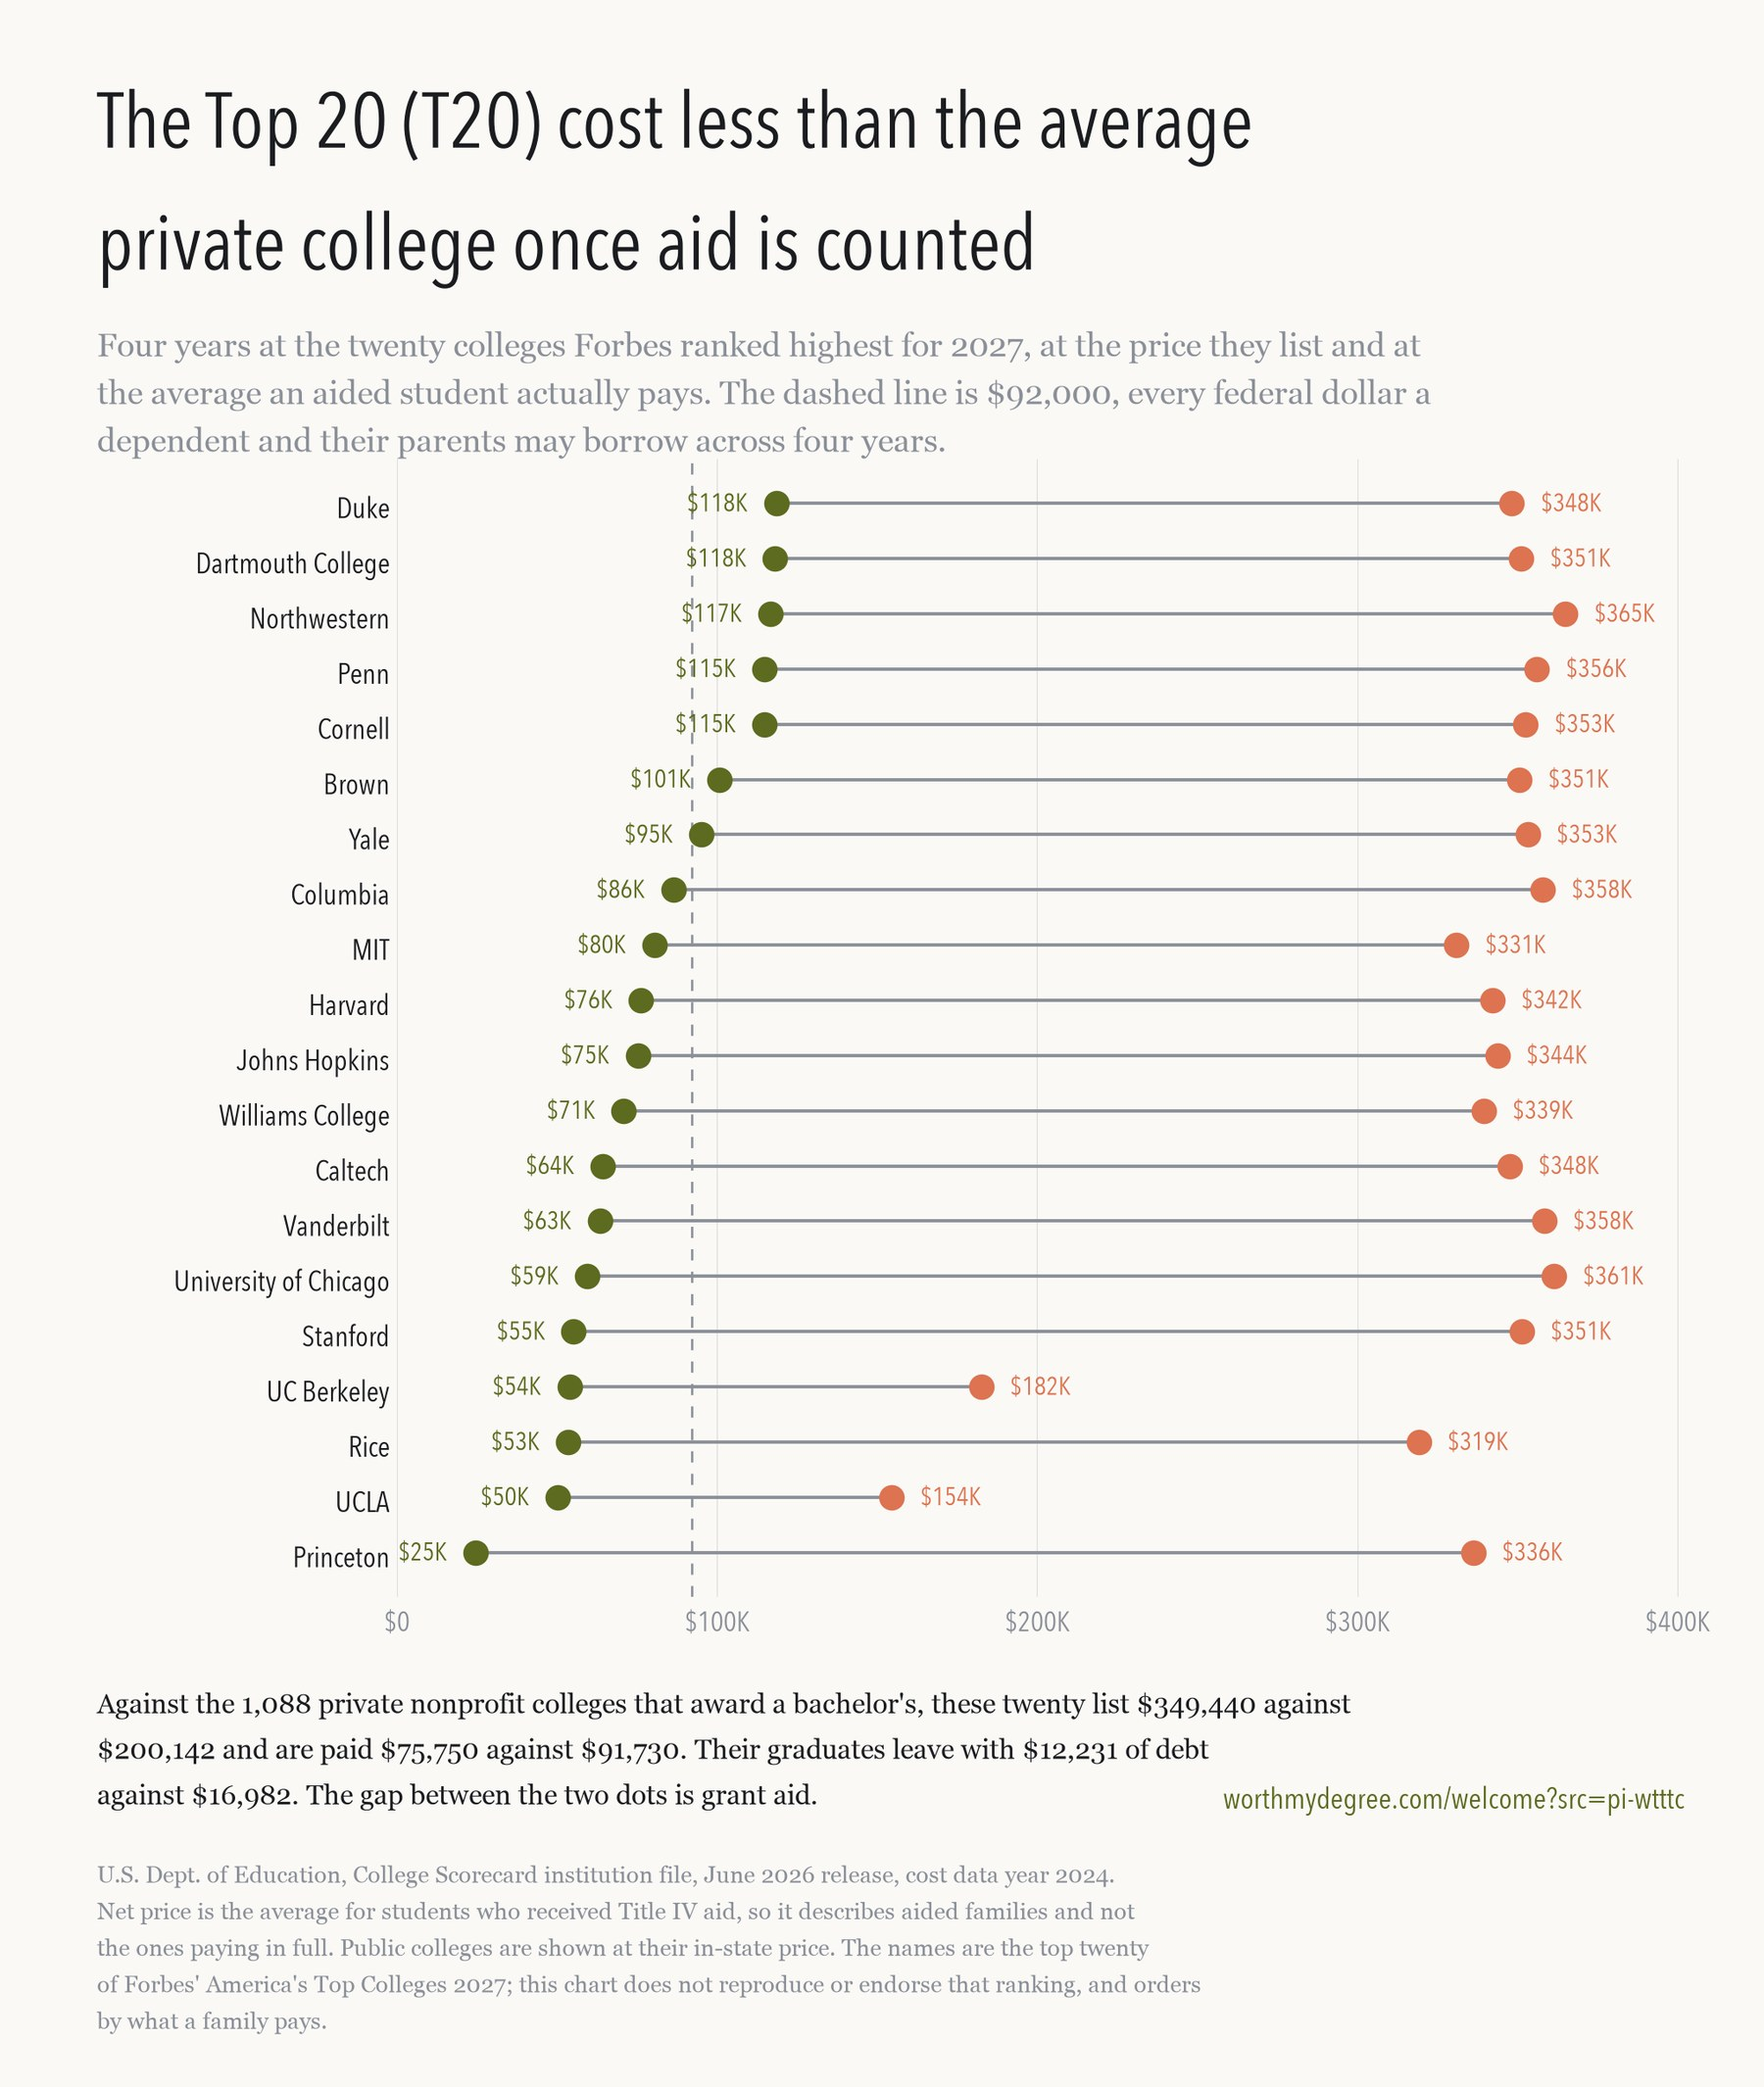
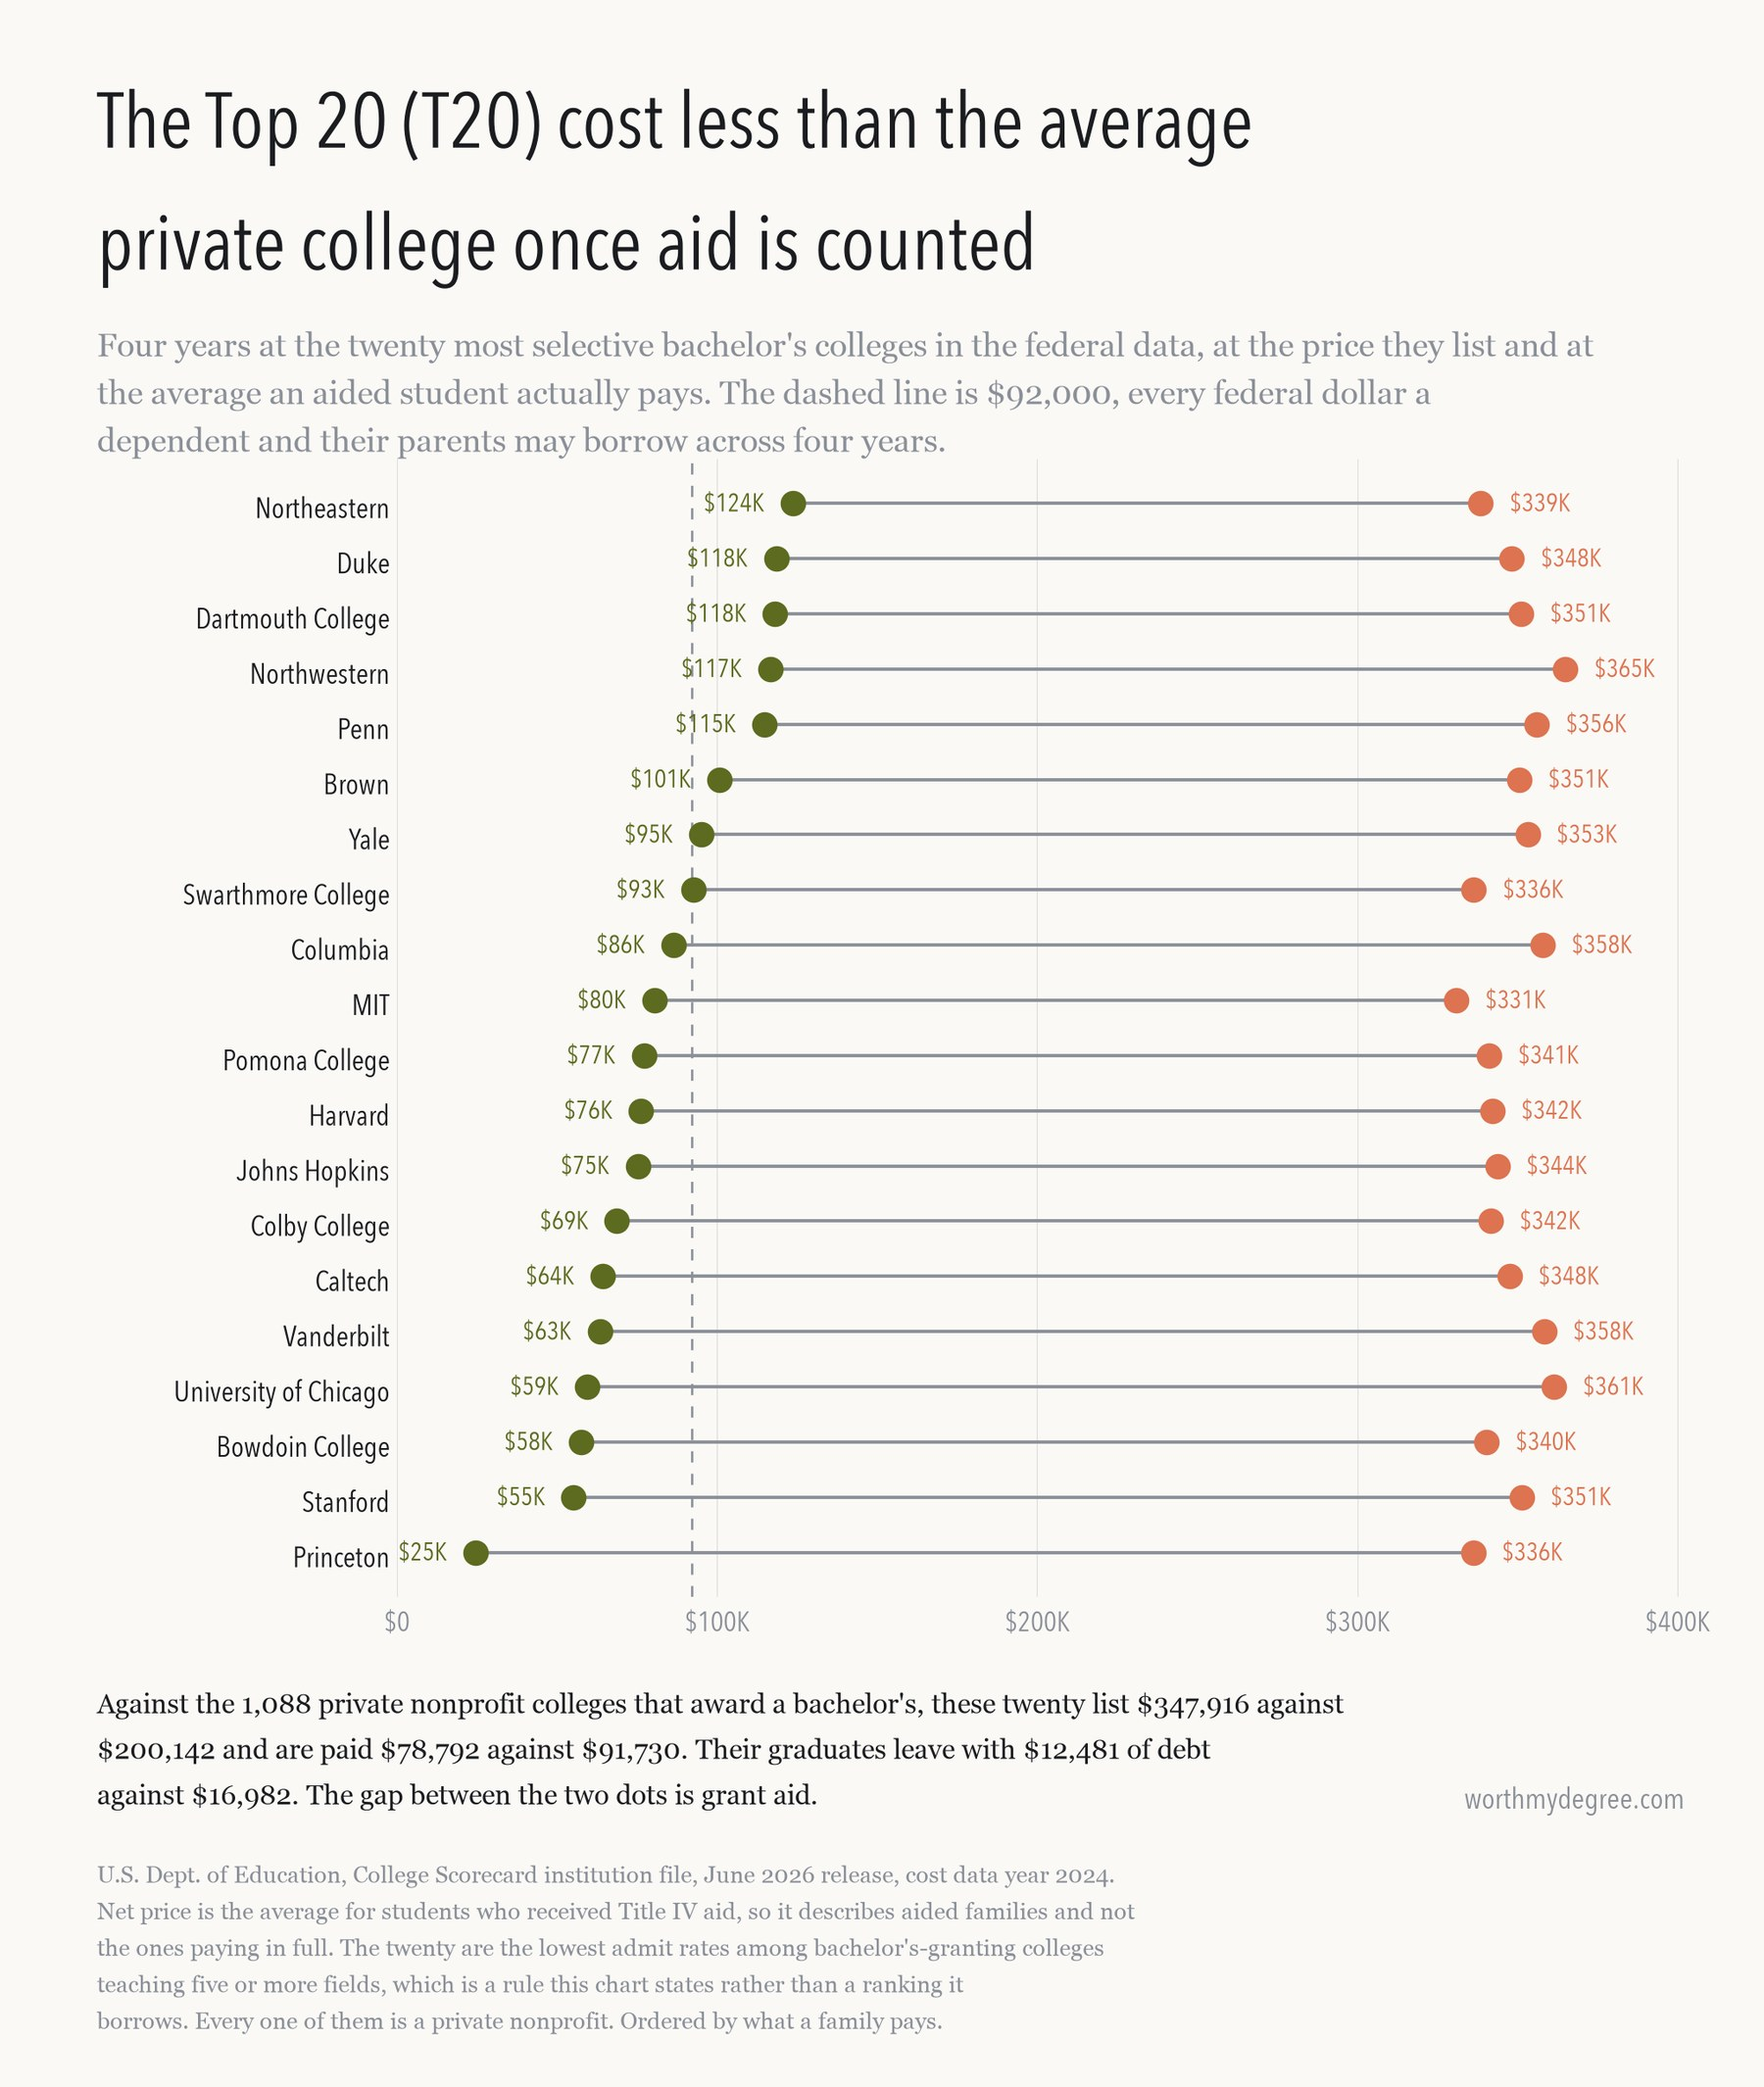
The twenty are derived, not borrowed: a selection of our own
The chart priced the twenty names at the head of Forbes' 2027 ranking,
used as a list of names with the order discarded. That was a considered
position and it still took somebody else's SELECTION, which under Feist v.
Rural Telephone is the one part of a factual compilation that carries any
protection: the facts are free, the choice of which twenty is not.

So the rule is ours and published, which is the standard chapter 4 already
holds its own outcome score to. Bachelor's-granting, teaching five or more
CIP families, the twenty lowest admit rates in the federal file. Every
input is College Scorecard and nothing of anyone else's compilation is
reproduced.

THE BREADTH FLOOR IS WHY A NURSING ACADEMY IS NOT IN IT. Without one the
fifth most selective bachelor's-granting institution in the country is a
single-subject school admitting 5.5%, which is true and is not a peer of
Caltech. Five families is the lowest floor that removes it.

15 of the 20 are the same schools. Cornell, Rice, Williams and both UC
campuses leave; Bowdoin, Colby, Northeastern, Pomona and Swarthmore enter.
The finding is unmoved: the median four years at the Reyes band goes
$194,602 to $192,350, and against her ~$100,900 index that now leaves
~$91,500 to find against a $92,000 federal maximum, inside the whole
federal system by about $500.

AND EVERY ONE OF THE TWENTY IS PRIVATE, because no public university
admits a small enough share to reach the cut. That is a better sentence
[…]

diff --git a/check_book_figures.py b/check_book_figures.py
@@ -385,18 +385,27 @@ FIX = "families.md"
 # committed CSV keeps the average only; the file is the same release, which is
 # how the debt column was added.
 REYES_AGI, REYES_SIZE = 150_000, 4
-TOP20_IPEDS = [
-    "Massachusetts Institute of Technology", "Princeton University",
-    "Harvard University", "Columbia University in the City of New York",
-    "University of Pennsylvania", "Stanford University",
-    "California Institute of Technology", "Yale University",
-    "University of California-Berkeley", "Vanderbilt University",
-    "Johns Hopkins University", "University of California-Los Angeles",
-    "Duke University", "Cornell University", "Northwestern University",
-    "Rice University", "University of Chicago", "Brown University",
-    "Williams College", "Dartmouth College",
-]
+# THE TWENTY ARE DERIVED, NOT LISTED, and the guard derives them the same way
+# the chart does rather than holding a copy. A second hand-typed list is how the
+# two come to disagree about which twenty, silently, with both looking right.
+#
+# They used to be Forbes' twenty. The selection is the book's own now, by a
+# published rule: under Feist a factual compilation protects its SELECTION and
+# not its facts, and borrowing the selection was the one part that was theirs.
+MIN_FAMILIES, TOP_N = 5, 20
 _BAND5 = {}
+
+
+def _top20(d):
+    """Bachelor's-granting, 5+ CIP families, the twenty lowest admit rates."""
+    # programs_bachl IS A PIPE-DELIMITED STRING, never a count: to_numeric on it
+    # is NaN for almost every row and drops 1,870 of the 2,235.
+    b = d[d.programs_bachl.notna() & (d.programs_bachl.astype(str).str.strip() != "")].copy()
+    b["families"] = (b.programs_bachl.astype(str).str.split("|")
+                     .apply(lambda x: len([i for i in x if i.strip()])))
+    return (b.dropna(subset=["ADM_RATE"])
+             .query("families >= @MIN_FAMILIES")
+             .nsmallest(TOP_N, "ADM_RATE"))
 
 
 def _band5(name=None):
@@ -407,11 +416,39 @@ def _band5(name=None):
         # are in the cleaned dataset for exactly that reason.
         import pandas as pd
         d = pd.read_csv(REPO / "data/college_coa_clean.csv",
-                        usecols=["INSTNM", "net_price_110_plus"])
-        d = d[d.INSTNM.isin(TOP20_IPEDS)]
+                        usecols=["INSTNM", "net_price_110_plus", "ADM_RATE",
+                                 "programs_bachl"], low_memory=False)
+        d = _top20(d)
         _BAND5.update(dict(zip(d.INSTNM, d.net_price_110_plus * 4)))
         _BAND5["__median__"] = float(d.net_price_110_plus.median() * 4)
     return _BAND5["__median__"] if name is None else _BAND5[name]
+
+
+_CA = {}
+
+
+def _ca(name=None):
+    """Four years at band 5 for a California public, or the median of them.
+
+    A SECOND READER AND NOT _band5, because that one is scoped to the twenty
+    and every school here is deliberately outside it. Same breadth floor as the
+    twenty so the two tables in chapter 4 compare like with like, and the
+    community colleges that award one bachelor's cannot pass as universities.
+    """
+    if not _CA:
+        import pandas as pd
+        d = pd.read_csv(REPO / "data/college_coa_clean.csv",
+                        usecols=["INSTNM", "STABBR", "control_type",
+                                 "net_price_110_plus", "programs_bachl"],
+                        low_memory=False)
+        b = d[d.programs_bachl.notna() & (d.programs_bachl.astype(str).str.strip() != "")].copy()
+        b["families"] = (b.programs_bachl.astype(str).str.split("|")
+                         .apply(lambda x: len([i for i in x if i.strip()])))
+        ca = b[(b.STABBR == "CA") & (b.control_type == "Public")
+               & (b.families >= MIN_FAMILIES)].dropna(subset=["net_price_110_plus"])
+        _CA.update(dict(zip(ca.INSTNM, ca.net_price_110_plus * 4)))
+        _CA["__median__"] = float(ca.net_price_110_plus.median() * 4)
+    return _CA["__median__"] if name is None else _CA[name]
 
 
 def _reyes_sai(ns):
@@ -449,14 +486,28 @@ FIGURES = [
     # ---- Chapter 4's Reyes case against the twenty.
     Fig("reyes-sai-year", lambda ns: _reyes_sai(ns), "~$25,200", [FIX, CH04], exact="$25,231"),
     Fig("reyes-sai-four", lambda ns: _reyes_sai(ns) * 4, "~$100,900", [FIX, CH04], exact="$100,924"),
-    Fig("reyes-ucla", lambda ns: _band5("University of California-Los Angeles"),
+    Fig("reyes-ucla", lambda ns: _ca("University of California-Los Angeles"),
         "~$118,700", [FIX, CH04], exact="$118,728"),
-    Fig("reyes-berkeley", lambda ns: _band5("University of California-Berkeley"),
+    Fig("reyes-berkeley", lambda ns: _ca("University of California-Berkeley"),
         "~$138,100", [FIX, CH04], exact="$138,116"),
     Fig("reyes-princeton", lambda ns: _band5("Princeton University"),
         "~$144,400", [FIX, CH04], exact="$144,376"),
+    Fig("reyes-bowdoin", lambda ns: _band5("Bowdoin College"),
+        "~$140,800", [FIX, CH04], exact="$140,784"),
+    Fig("reyes-penn", lambda ns: _band5("University of Pennsylvania"),
+        "~$223,900", [FIX, CH04], exact="$223,888"),
+    # ---- Her own state, which is a different table and a different question.
+    Fig("reyes-ca-long-beach", lambda ns: _ca("California State University-Long Beach"),
+        "~$79,000", [FIX, CH04], exact="$79,000"),
+    Fig("reyes-ca-median", lambda ns: _ca(),
+        "~$90,100", [FIX, CH04], exact="$90,092"),
+    Fig("reyes-ca-sdsu", lambda ns: _ca("San Diego State University"),
+        "~$95,300", [FIX, CH04], exact="$95,284"),
+    Fig("reyes-ca-calpoly",
+        lambda ns: _ca("California Polytechnic State University-San Luis Obispo"),
+        "~$111,100", [FIX, CH04], exact="$111,088"),
     Fig("reyes-top20-median", lambda ns: _band5(),
-        "~$194,600", [FIX, CH04], exact="$194,602"),
+        "~$192,400", [FIX, CH04], exact="$192,350"),
     Fig("reyes-duke", lambda ns: _band5("Duke University"),
         "~$216,900", [FIX, CH04], exact="$216,920"),
     # ---- The Reyes family's three Parent PLUS roads. Every one of these
